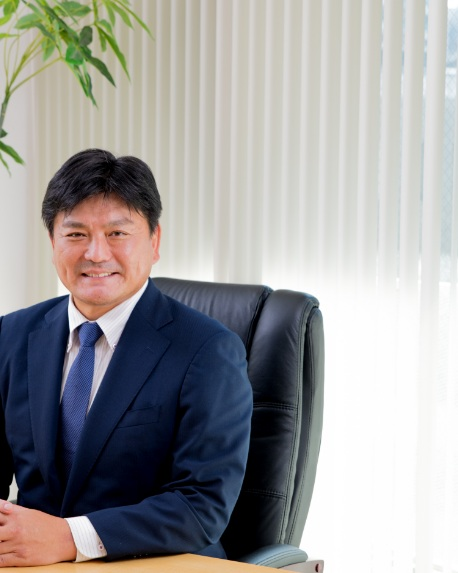
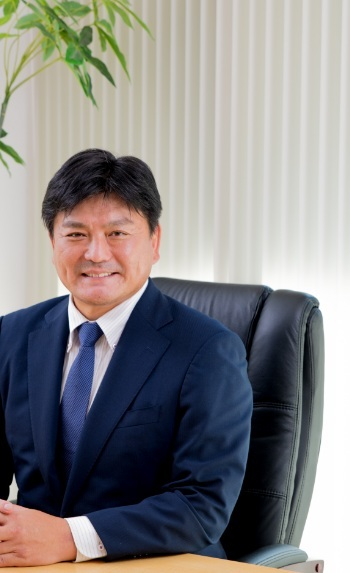
Restore suit photo, redesign promise band, add partner insurers list
- Revert profile section photo to the original suit portrait; re-crop
  it to remove the excess empty curtain space that was pushing him
  to the left, so he now sits centered and balanced in the frame.
- Rework the 3-item promise band (strong sales, ex-JDA sincerity,
  long-term partner) from a cramped icon-left/text-right row into a
  centered icon-on-top layout, stacked vertically, fixing the awkward
  text wrap and giving it more breathing room.
- Add a new "提携先保険会社一覧" section listing 11 partner insurers
  as a card grid (1/2/3 columns), placed between services and the
  representative profile to reinforce trust.

diff --git a/index.html b/index.html
@@ -759,6 +759,43 @@ section.bg-sky{
 .icon-badge.green{background:#E8F5EC;color:#3D7A54;}
 
 /* ============================================================
+   提携先保険会社一覧追加場所（信頼性補強セクション）
+============================================================ */
+.partners-grid{
+  display:grid;
+  grid-template-columns:1fr;
+  gap:14px;
+  max-width:900px;
+  margin:0 auto;
+}
+.partner-card{
+  display:flex;
+  align-items:center;
+  gap:12px;
+  background:var(--white);
+  border:1px solid var(--border);
+  border-radius:var(--radius-md);
+  padding:16px 18px;
+  box-shadow:var(--shadow-soft);
+}
+.partner-card .partner-mark{
+  flex-shrink:0;
+  width:34px;height:34px;
+  border-radius:50%;
+  background:var(--secondary);
+  color:var(--primary-dark);
+  display:flex;align-items:center;justify-content:center;
+}
+.partner-card .partner-mark svg{width:16px;height:16px;}
+.partner-card span{font-size:13.5px;font-weight:700;color:var(--navy);line-height:1.5;}
+.partners-note{
+  text-align:center;
+  font-size:12.5px;
+  color:var(--text-sub);
+  margin-top:28px;
+}
+
+/* ============================================================
    5. 代表プロフィール
 ============================================================ */
 .profile-card{
@@ -929,26 +966,29 @@ section.bg-sky{
 }
 .flow-connector svg{width:20px;height:20px;}
 
-/* ============================================================
-   お約束ミニバンド（信頼補強・お問い合わせ前）
-============================================================ */
+/* ---- 強引な勧誘なし表示変更場所 ----
+   3項目を横並びのアイコン＋文章ではなく、アイコンを上・文章を下にした縦配置にし、
+   スマホでも文字が自然に収まるようにしています。3項目自体も横並びグリッドではなく縦方向に並べています。 */
 .promise-band{
-  display:grid;
-  grid-template-columns:1fr;
-  gap:14px;
-  margin-bottom:48px;
+  display:flex;
+  flex-direction:column;
+  gap:16px;
+  max-width:520px;
+  margin:0 auto 48px;
 }
 .promise-mini{
   display:flex;
+  flex-direction:column;
   align-items:center;
-  gap:14px;
+  text-align:center;
+  gap:10px;
   background:var(--white);
   border:1px solid var(--border);
   border-radius:var(--radius-md);
-  padding:18px 18px;
+  padding:26px 22px;
 }
-.promise-mini h4{font-size:13.5px;font-weight:700;line-height:1.5;color:var(--navy);margin-bottom:4px;}
-.promise-mini p{font-size:12px;color:var(--text-sub);}
+.promise-mini h4{font-size:15px;font-weight:700;line-height:1.5;color:var(--navy);margin-bottom:2px;}
+.promise-mini p{font-size:12.5px;color:var(--text-sub);line-height:1.7;}
 
 /* ============================================================
    7. お問い合わせ
@@ -1154,7 +1194,7 @@ section.bg-sky{
 @media (min-width:600px){
   .invest-grid{grid-template-columns:repeat(3,1fr);}
   .cta-group{flex-direction:row;max-width:none;}
-  .promise-band{grid-template-columns:repeat(3,1fr);}
+  .partners-grid{grid-template-columns:repeat(2,1fr);}
 }
 
 /* ============================================================
@@ -1165,6 +1205,7 @@ section.bg-sky{
   .pc-nav{display:block;}
   .header-actions{display:flex;}
   .logo img.logo-img{height:34px;}
+  .partners-grid{grid-template-columns:repeat(3,1fr);}
 
   .hero-inner{padding-top:150px;padding-bottom:110px;}
   .hero h1{font-size:48px;}
@@ -1527,6 +1568,35 @@ section.bg-sky{
   </section>
 
   <!-- ============================================================
+       提携先保険会社一覧追加場所
+  ============================================================ -->
+  <section id="partners" class="bg-pale">
+    <div class="container">
+      <div class="section-head">
+        <span class="en-label">OUR PARTNERS</span>
+        <h2>提携先保険会社一覧</h2>
+        <p class="lead">多数の保険会社と提携しているからこそ、お客様に合わせた最適なご提案が可能です。</p>
+      </div>
+
+      <div class="partners-grid">
+        <div class="partner-card"><span class="partner-mark"><svg viewBox="0 0 24 24" fill="none" stroke="currentColor" stroke-width="1.8" stroke-linecap="round" stroke-linejoin="round"><path d="M12 3l7 3v6c0 4.5-3 8-7 9-4-1-7-4.5-7-9V6z"/></svg></span><span>オリックス生命</span></div>
+        <div class="partner-card"><span class="partner-mark"><svg viewBox="0 0 24 24" fill="none" stroke="currentColor" stroke-width="1.8" stroke-linecap="round" stroke-linejoin="round"><path d="M12 3l7 3v6c0 4.5-3 8-7 9-4-1-7-4.5-7-9V6z"/></svg></span><span>ＳＯＭＰＯひまわり生命</span></div>
+        <div class="partner-card"><span class="partner-mark"><svg viewBox="0 0 24 24" fill="none" stroke="currentColor" stroke-width="1.8" stroke-linecap="round" stroke-linejoin="round"><path d="M12 3l7 3v6c0 4.5-3 8-7 9-4-1-7-4.5-7-9V6z"/></svg></span><span>東京海上日動／東京海上日動あんしん生命</span></div>
+        <div class="partner-card"><span class="partner-mark"><svg viewBox="0 0 24 24" fill="none" stroke="currentColor" stroke-width="1.8" stroke-linecap="round" stroke-linejoin="round"><path d="M12 3l7 3v6c0 4.5-3 8-7 9-4-1-7-4.5-7-9V6z"/></svg></span><span>日本生命保険相互会社</span></div>
+        <div class="partner-card"><span class="partner-mark"><svg viewBox="0 0 24 24" fill="none" stroke="currentColor" stroke-width="1.8" stroke-linecap="round" stroke-linejoin="round"><path d="M12 3l7 3v6c0 4.5-3 8-7 9-4-1-7-4.5-7-9V6z"/></svg></span><span>第一ネオ生命保険株式会社</span></div>
+        <div class="partner-card"><span class="partner-mark"><svg viewBox="0 0 24 24" fill="none" stroke="currentColor" stroke-width="1.8" stroke-linecap="round" stroke-linejoin="round"><path d="M12 3l7 3v6c0 4.5-3 8-7 9-4-1-7-4.5-7-9V6z"/></svg></span><span>FWD生命</span></div>
+        <div class="partner-card"><span class="partner-mark"><svg viewBox="0 0 24 24" fill="none" stroke="currentColor" stroke-width="1.8" stroke-linecap="round" stroke-linejoin="round"><path d="M12 3l7 3v6c0 4.5-3 8-7 9-4-1-7-4.5-7-9V6z"/></svg></span><span>はなさく生命保険</span></div>
+        <div class="partner-card"><span class="partner-mark"><svg viewBox="0 0 24 24" fill="none" stroke="currentColor" stroke-width="1.8" stroke-linecap="round" stroke-linejoin="round"><path d="M12 3l7 3v6c0 4.5-3 8-7 9-4-1-7-4.5-7-9V6z"/></svg></span><span>チューリッヒ生命</span></div>
+        <div class="partner-card"><span class="partner-mark"><svg viewBox="0 0 24 24" fill="none" stroke="currentColor" stroke-width="1.8" stroke-linecap="round" stroke-linejoin="round"><path d="M12 3l7 3v6c0 4.5-3 8-7 9-4-1-7-4.5-7-9V6z"/></svg></span><span>あいおいニッセイ同和損保</span></div>
+        <div class="partner-card"><span class="partner-mark"><svg viewBox="0 0 24 24" fill="none" stroke="currentColor" stroke-width="1.8" stroke-linecap="round" stroke-linejoin="round"><path d="M12 3l7 3v6c0 4.5-3 8-7 9-4-1-7-4.5-7-9V6z"/></svg></span><span>三井住友海上あいおい生命</span></div>
+        <div class="partner-card"><span class="partner-mark"><svg viewBox="0 0 24 24" fill="none" stroke="currentColor" stroke-width="1.8" stroke-linecap="round" stroke-linejoin="round"><path d="M12 3l7 3v6c0 4.5-3 8-7 9-4-1-7-4.5-7-9V6z"/></svg></span><span>アクサ生命保険株式会社</span></div>
+      </div>
+
+      <p class="partners-note">上記のほか、複数の保険会社とも提携しております。詳しくはお問い合わせください。</p>
+    </div>
+  </section>
+
+  <!-- ============================================================
        ⑤ 代表プロフィール
   ============================================================ -->
   <section id="profile" class="bg-profile">
@@ -1539,9 +1609,9 @@ section.bg-sky{
 
       <div class="profile-layout">
         <div class="profile-card">
-          <!-- 代表プロフィール写真変更場所：現在 images/watanabe.jpg を使用中 -->
+          <!-- 代表プロフィール写真変更場所：現在 images/representative-main.jpg（スーツ姿）を使用中 -->
           <div class="profile-photo">
-            <img src="images/watanabe.jpg" alt="代表取締役 渡辺琢哉" style="object-position:center center;"
+            <img src="images/representative-main.jpg" alt="代表取締役 渡辺琢哉" style="object-position:center 42%;"
                  onerror="this.style.display='none'; this.nextElementSibling.style.display='flex';">
             <div class="photo-fallback-lg" style="display:none;">
               <span class="initial">渡辺</span>
@@ -1684,34 +1754,28 @@ section.bg-sky{
             </div>
           </div>
 
-          <!-- お客様への約束（信頼補強ミニバンド） -->
+          <!-- 強引な勧誘なし表示変更場所：3項目とも「アイコン→タイトル→説明文」の縦配置 -->
           <div class="promise-band">
             <div class="promise-mini">
-              <div class="icon-badge gold" style="width:40px;height:40px;">
-                <svg viewBox="0 0 24 24" width="18" height="18" fill="none" stroke="currentColor" stroke-width="1.8" stroke-linecap="round" stroke-linejoin="round"><path d="M17 8l-8.5 8.5L4 12"/></svg>
+              <div class="icon-badge gold" style="width:48px;height:48px;">
+                <svg viewBox="0 0 24 24" width="20" height="20" fill="none" stroke="currentColor" stroke-width="1.8" stroke-linecap="round" stroke-linejoin="round"><path d="M17 8l-8.5 8.5L4 12"/></svg>
               </div>
-              <div>
-                <h4>強引な勧誘は<br>いたしません</h4>
-                <p>ご自身のペースでご検討いただけます。</p>
-              </div>
+              <h4>強引な勧誘は<br>いたしません</h4>
+              <p>ご自身のペースでご検討いただけます。</p>
             </div>
             <div class="promise-mini">
-              <div class="icon-badge" style="width:40px;height:40px;">
-                <svg viewBox="0 0 24 24" width="18" height="18" fill="none" stroke="currentColor" stroke-width="1.8" stroke-linecap="round" stroke-linejoin="round"><rect x="4" y="4" width="16" height="16" rx="3"/><path d="M8 12h8M8 16h5"/></svg>
+              <div class="icon-badge" style="width:48px;height:48px;">
+                <svg viewBox="0 0 24 24" width="20" height="20" fill="none" stroke="currentColor" stroke-width="1.8" stroke-linecap="round" stroke-linejoin="round"><path d="M12 3l7 3v6c0 4.5-3 8-7 9-4-1-7-4.5-7-9V6z"/><path d="M9.5 12l1.8 1.8L15 10.2"/></svg>
               </div>
-              <div>
-                <h4>メリット・デメリットを両方お伝え</h4>
-                <p>正直な情報提供を大切にしています。</p>
-              </div>
+              <h4>元自衛官による<br>誠実なサポート</h4>
+              <p>規律と責任感を大切に、丁寧に対応いたします。</p>
             </div>
             <div class="promise-mini">
-              <div class="icon-badge green" style="width:40px;height:40px;">
-                <svg viewBox="0 0 24 24" width="18" height="18" fill="none" stroke="currentColor" stroke-width="1.8" stroke-linecap="round" stroke-linejoin="round"><rect x="5" y="10" width="14" height="10" rx="2"/><path d="M8 10V7a4 4 0 0 1 8 0v3"/></svg>
+              <div class="icon-badge green" style="width:48px;height:48px;">
+                <svg viewBox="0 0 24 24" width="20" height="20" fill="none" stroke="currentColor" stroke-width="1.8" stroke-linecap="round" stroke-linejoin="round"><circle cx="9" cy="12" r="6.5"/><circle cx="15" cy="12" r="6.5"/></svg>
               </div>
-              <div>
-                <h4>個人情報は厳重に管理</h4>
-                <p>ご相談内容は適切に管理いたします。</p>
-              </div>
+              <h4>長期的な<br>パートナー</h4>
+              <p>一度きりではなく、長くお付き合いできる関係を大切にしています。</p>
             </div>
           </div>
         </div>
@@ -1849,6 +1913,7 @@ section.bg-sky{
         <a href="#reason">選ばれる理由</a>
         <a href="#invest">資産運用相談</a>
         <a href="#topics">相談できる内容</a>
+        <a href="#partners">提携先保険会社一覧</a>
         <a href="#profile">代表プロフィール</a>
         <a href="#flow">ご相談の流れ</a>
         <a href="#contact">お問い合わせ</a>